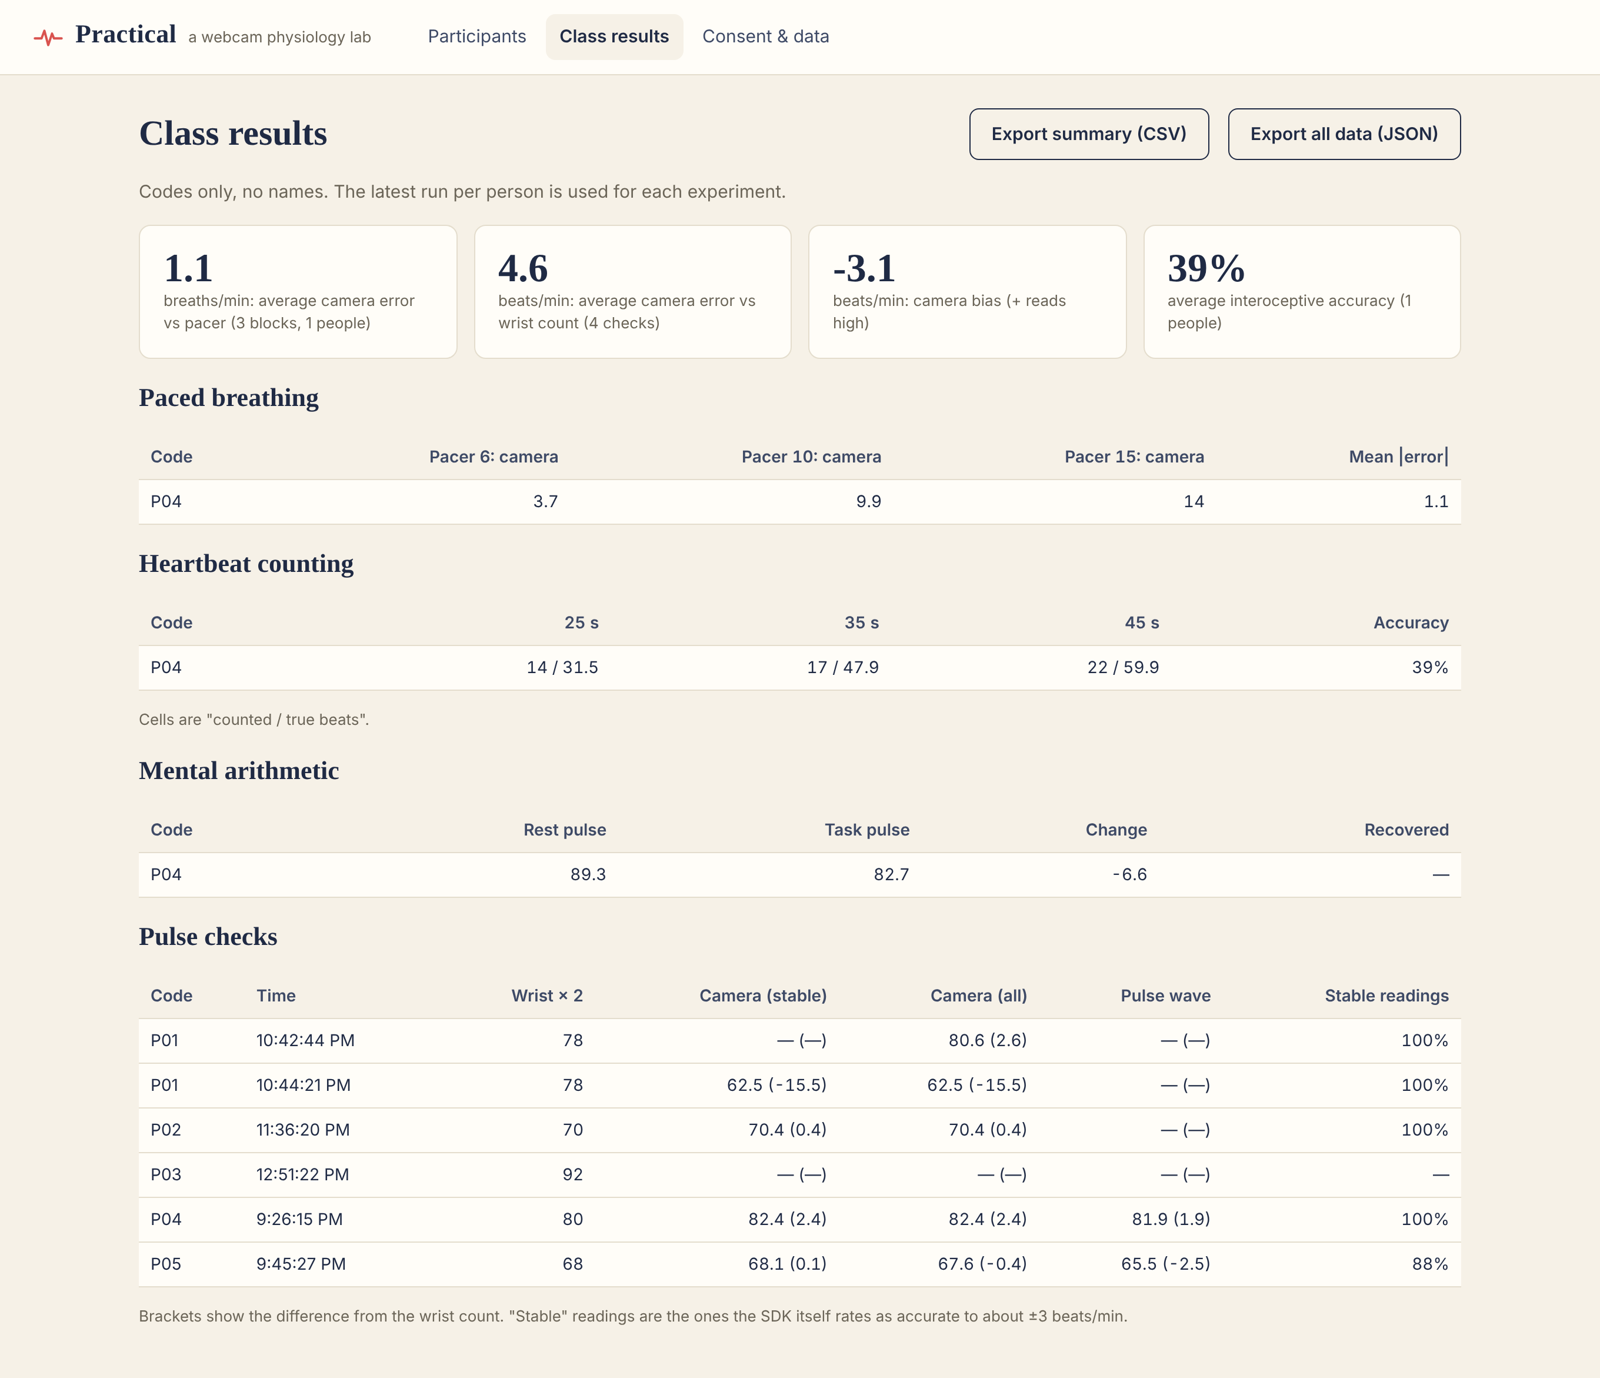
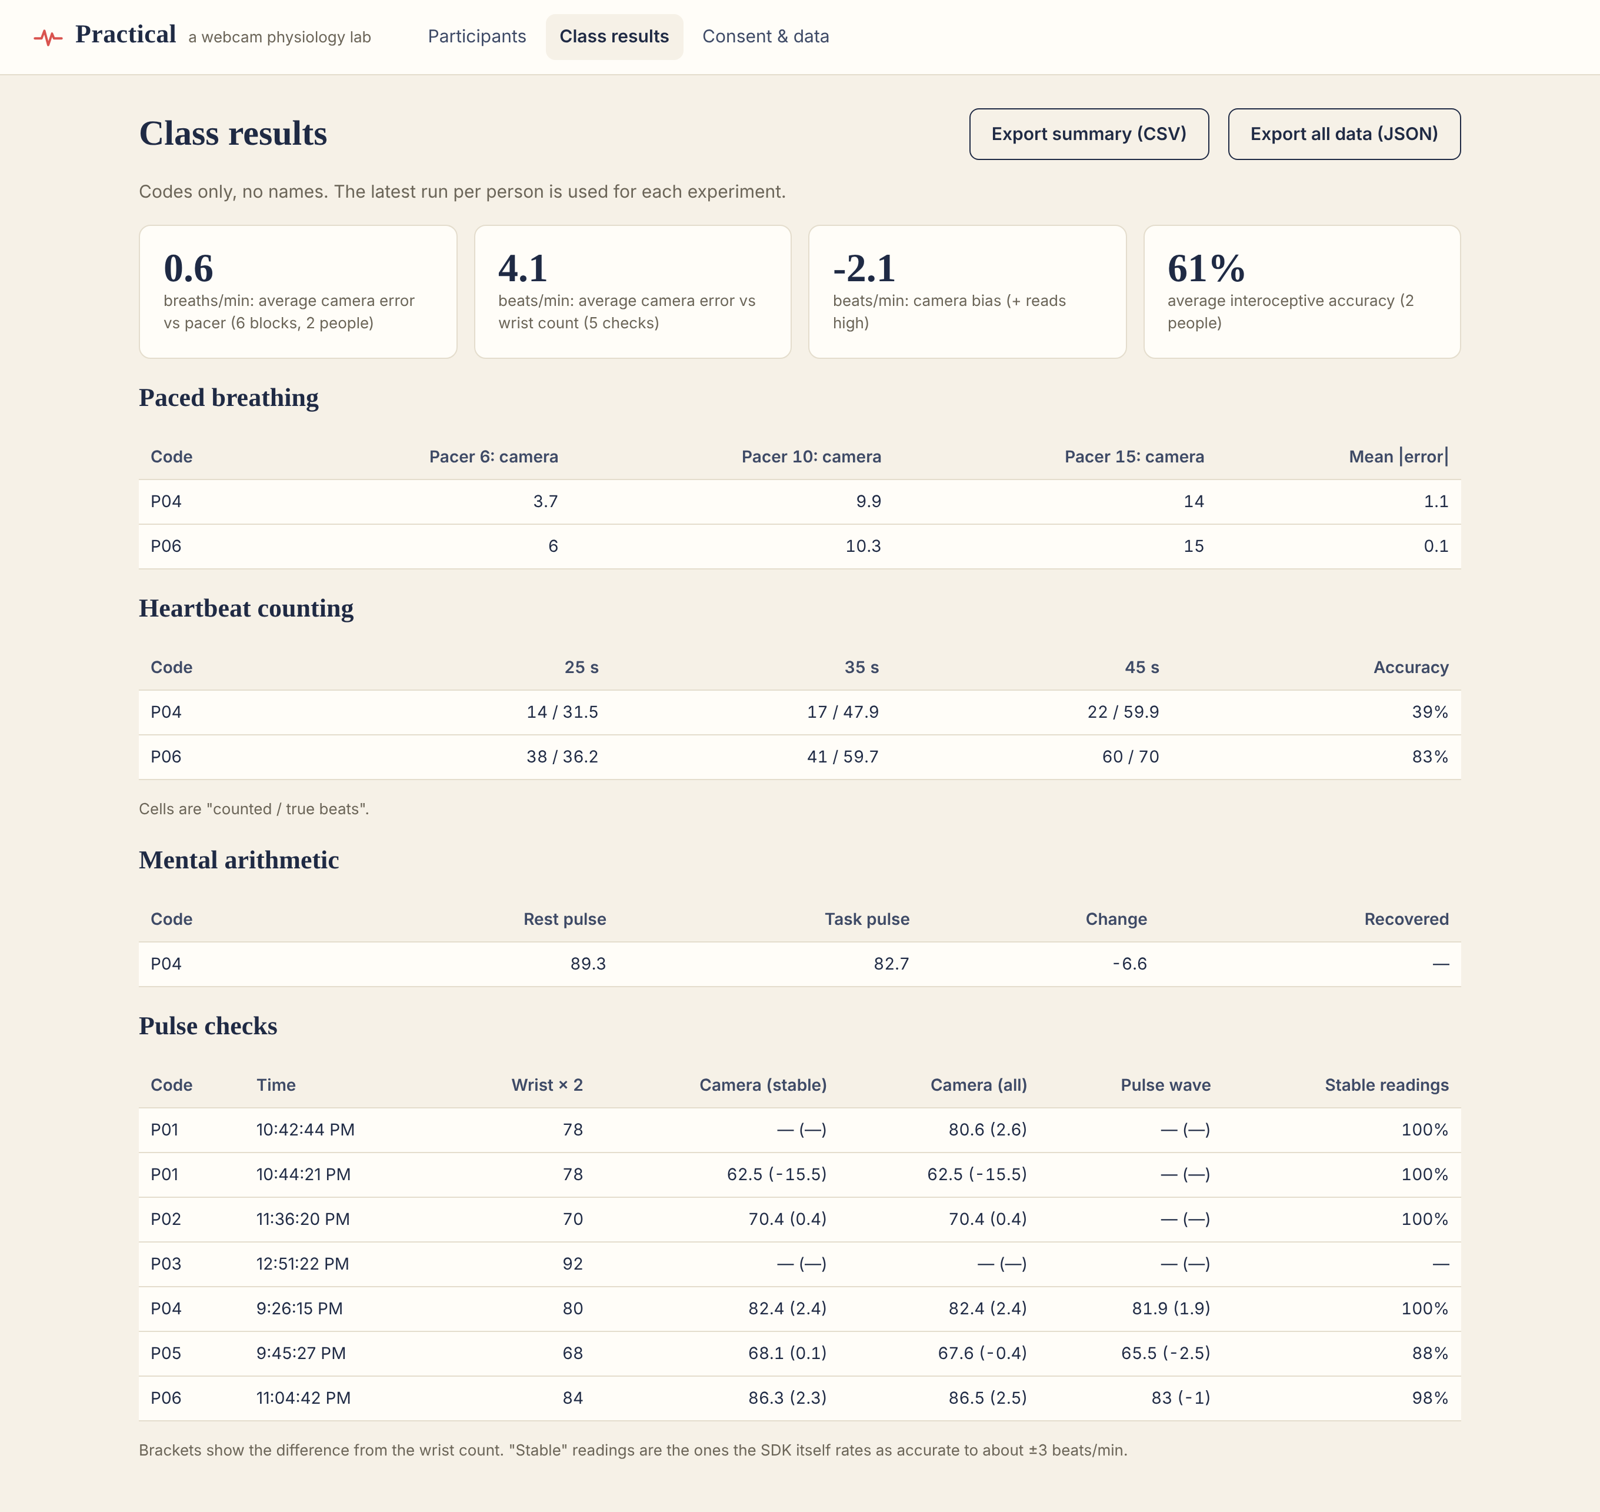
Real-session screenshots, cover image and results in README
Claude-Session: https://claude.ai/code/session_016CVqxyGP4RP7i5BPf52ExW

diff --git a/README.md b/README.md
@@ -10,6 +10,29 @@ Every experiment has a known right answer (the pacer rate, the hand-counted puls
 
 Physiology hardware (ECG amplifiers, breathing belts, wrist sensors) is lab-budget equipment, so many students learn these experiments from a textbook. And 96% of psychology study participants come from Western industrialised countries, home to 12% of the world's population (Arnett 2008, quoted in [Nature](https://www.nature.com/articles/466029a)). A webcam is in every laptop.
 
+![Pulse check: wrist 80, camera 82.4, pulse-wave count 81.9](docs/img/pulsecheck-P04.png)
+
+## Results from real sessions
+
+Built-in laptop webcam, 12 sessions from two people (the author and one friend, who consented in the app). A classroom demo, not a validation study.
+
+| Pulse check | Wrist × 2 | Camera (stable readings) | Difference | Beats counted in the pulse wave |
+|---|---|---|---|---|
+| P02 | 70 | 70.4 | +0.4 | — |
+| P04 | 80 | 82.4 | +2.4 | 81.9 |
+| P05 | 68 | 68.1 | +0.1 | 65.5 |
+| P06 | 84 | 86.3 | +2.3 | 83.0 |
+| P03 | 92 | no number (more than one face in view) | | |
+
+| Paced breathing | Pacer 6 | Pacer 10 | Pacer 15 |
+|---|---|---|---|
+| P04 camera rate | 3.7 | 9.9 | 14.0 |
+| P06 camera rate | 6.0 | 10.3 | 15.0 |
+
+The first version averaged every reading and was off by −15.5 bpm; it now uses only readings the SDK marks stable, counts beats in the raw pulse wave as a second opinion, and shows a signal-quality box on every result.
+
+![Paced breathing: camera rate vs pacer](docs/img/breathing-P06.png)
+
 ## The experiments
 
 | Experiment | What you do | The answer key | Camera time |
